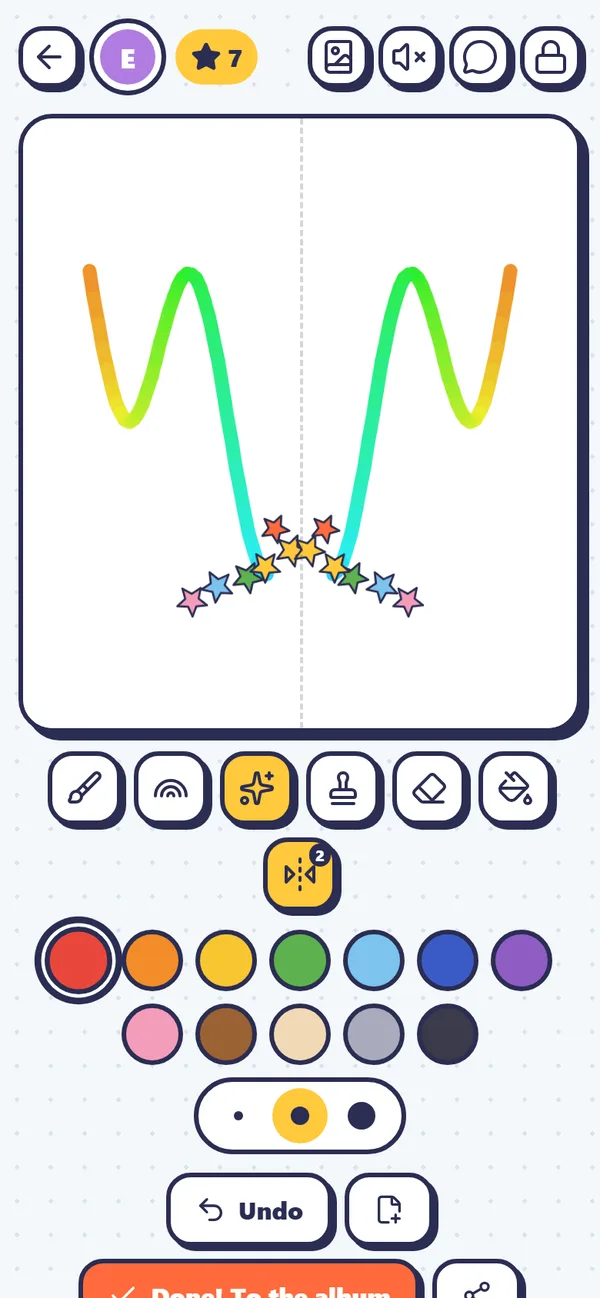
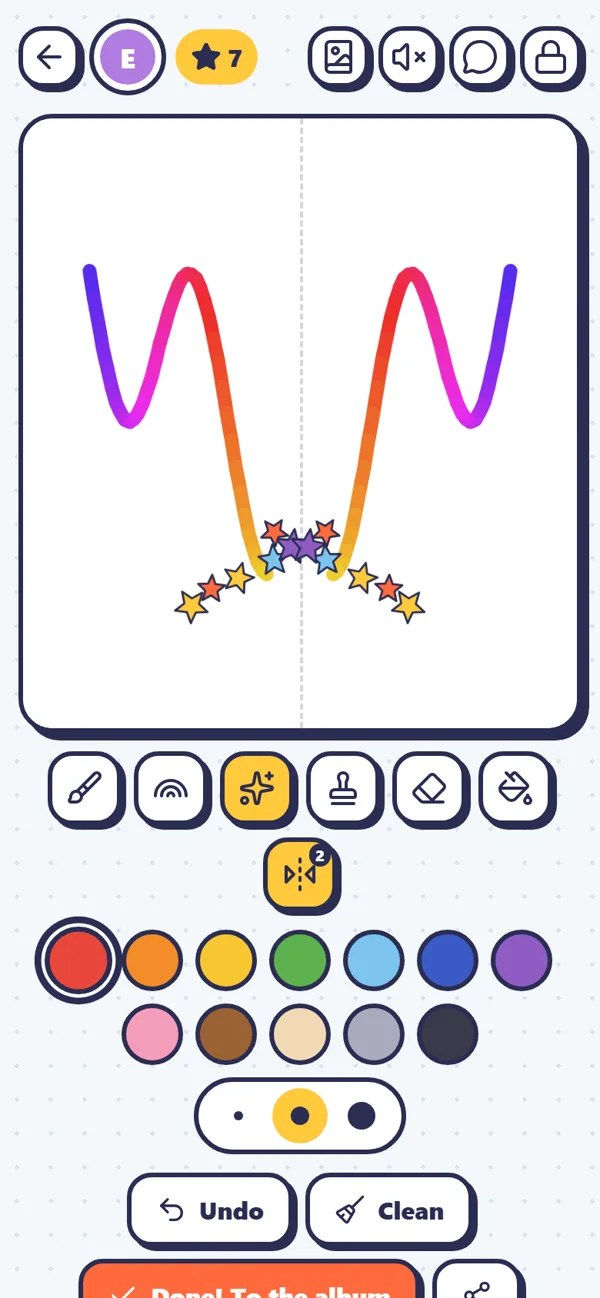
feat(angolo-bambini): tasto «Pulisci» nei giochi e musica dei colori più semplice
- Colora e Anima, Crea il tuo animale e Disegno libero: tasto «Pulisci» che svuota il foglio («Annulla» lo riporta indietro)
- La musica dei colori: i fiori si colorano in fila senza buchi, «Suona» suona solo quelli colorati, le canzoni si cancellano senza il codice del genitore, tolto lo strumento robot
- Guida e schermate aggiornate (it/en), testi in 7 lingue

diff --git a/src/components/kids/MusicGame.tsx b/src/components/kids/MusicGame.tsx
@@ -2,7 +2,7 @@
 
 import { useCallback, useEffect, useMemo, useRef, useState } from 'react'
 import { useTranslations } from 'next-intl'
-import { Bell, Bot, Dices, Eraser, Gauge, ListMusic, Play, Save, Square, Trash2, Wind } from 'lucide-react'
+import { Bell, Dices, Eraser, Gauge, ListMusic, Play, Save, Square, Trash2, Wind } from 'lucide-react'
 import { PALETTE, drawingById } from '@/lib/kids/catalog'
 import { assembleCreature } from '@/lib/kids/creature'
 import { KIDS_SVG_CSS, applyPivots } from '@/lib/kids/moves'
@@ -13,8 +13,9 @@ import type { KidsActions } from './actions'
 
 // «La musica dei colori»: ogni pastello è una nota. Il bambino colora i fiori
 // della fila, preme «Suona» e il suo personaggio balla sulla melodia che ha
-// «dipinto». Le note sono di una scala pentatonica: qualunque combinazione
-// suona bene. Le canzoni restano nel telefono.
+// «dipinto». I fiori si colorano in fila, senza buchi, e «Suona» suona solo
+// quelli colorati. Le note sono di una scala pentatonica: qualunque
+// combinazione suona bene. Le canzoni restano nel telefono.
 
 const rand = () => Math.random()
 const now = () => Date.now()
@@ -24,9 +25,14 @@ const NOTE_COLORS = ['red', 'orange', 'yellow', 'green', 'lightBlue', 'blue', 'p
 const STEPS = 12
 const TEMPOS = [560, 400, 270]
 const MAX_SONGS = 12
-const INSTRUMENT_ICON: Record<Instrument, typeof Bell> = { xilofono: ListMusic, flauto: Wind, campanelle: Bell, robot: Bot }
+const INSTRUMENT_ICON: Record<Instrument, typeof Bell> = { xilofono: ListMusic, flauto: Wind, campanelle: Bell }
 
 const emptySong = (): (number | null)[] => Array(STEPS).fill(null)
+// Note in fila dall'inizio, poi i fiori vuoti (anche per le canzoni salvate con le pause)
+const compact = (notes: (number | null)[]) => {
+  const filled = notes.filter((n): n is number => n !== null && n !== undefined).slice(0, STEPS)
+  return [...filled, ...Array<null>(STEPS - filled.length).fill(null)]
+}
 
 export default function MusicGame({
   profile,
@@ -86,19 +92,21 @@ export default function MusicGame({
     fig.classList.add('waking')
   }
 
+  // Fiori colorati (sempre all'inizio della fila): «Suona» si ferma all'ultimo
+  const filled = notes.findIndex((n) => n === null)
+  const length = filled === -1 ? STEPS : filled
+
   const play = () => {
     if (playing) return stop()
+    if (!length) return actions.toast(t('musicEmpty'))
     setPlaying(true)
     let i = 0
     const tick = () => {
       setStep(i)
-      const n = notes[i]
-      if (n !== null && n !== undefined) {
-        if (sound) playNote(n, instrument)
-        hop()
-      }
+      if (sound) playNote(notes[i]!, instrument)
+      hop()
       i += 1
-      if (i >= STEPS) {
+      if (i >= length) {
         timer.current = setTimeout(() => {
           stop()
           if (sound) melody([0, 4, 7], 110)
@@ -111,19 +119,25 @@ export default function MusicGame({
   }
 
   const tapStep = (i: number) => {
+    // Stesso colore di nuovo (o gomma): il fiore si svuota e quelli dopo scorrono indietro
+    if (color === null || notes[i] === color) {
+      if (notes[i] === null) return
+      setNotes(compact(notes.map((n, k) => (k === i ? null : n))))
+      return
+    }
+    // Un fiore vuoto si colora sempre al primo posto libero: niente buchi nella fila
+    const at = notes[i] === null ? length : i
     const next = [...notes]
-    // Stesso colore di nuovo (o gomma): il fiore torna vuoto, cioè una pausa
-    next[i] = color === null || notes[i] === color ? null : color
+    next[at] = color
     setNotes(next)
-    if (next[i] !== null && sound) playNote(next[i]!, instrument)
+    if (sound) playNote(color, instrument)
   }
 
   const randomSong = () => {
     stop()
-    // Melodia a caso che «cammina» tra note vicine, con qualche pausa
+    // Melodia a caso che «cammina» tra note vicine
     let n = Math.floor(rand() * 4)
-    const song = Array.from({ length: STEPS }, (_, i) => {
-      if (i % 4 === 3 && rand() < 0.4) return null
+    const song = Array.from({ length: STEPS }, () => {
       n = Math.max(0, Math.min(7, n + Math.round(rand() * 4 - 2)))
       return n
     })
@@ -132,7 +146,7 @@ export default function MusicGame({
 
   const songs = profile.songs ?? []
   const saveSong = () => {
-    if (notes.every((n) => n === null)) return actions.toast(t('musicEmpty'))
+    if (!length) return actions.toast(t('musicEmpty'))
     // Canzone uguale a una già salvata: niente doppione e niente stella in più
     const same = (song: Song) => song.instrument === instrument && song.tempo === tempo && song.notes.every((n, i) => n === notes[i])
     if (songs.some(same)) return actions.toast(t('musicSaved'))
@@ -143,7 +157,7 @@ export default function MusicGame({
   }
   const loadSong = (song: Song) => {
     stop()
-    setNotes([...song.notes, ...emptySong()].slice(0, STEPS))
+    setNotes(compact(song.notes))
     setInstrument((INSTRUMENTS as readonly string[]).includes(song.instrument) ? (song.instrument as Instrument) : 'xilofono')
     setTempo(song.tempo)
     setList(false)
@@ -166,7 +180,7 @@ export default function MusicGame({
             type="button"
             onClick={() => tapStep(i)}
             aria-label={n === null ? t('musicPause', { n: i + 1 }) : t('musicNote', { n: i + 1, color: t(`colors.${NOTE_COLORS[n].key}`) })}
-            className={`relative aspect-square rounded-full border-[3px] transition-transform ${step === i ? 'scale-110 border-[#FF6A3D] ring-4 ring-[#FFC93C]' : 'border-[#2B2D52]'} ${n === null ? 'border-dashed bg-white' : ''}`}
+            className={`relative aspect-square rounded-full border-[3px] transition-transform ${step === i ? 'scale-110 border-[#FF6A3D] ring-4 ring-[#FFC93C]' : i === length && !playing ? 'animate-pulse border-[#FF6A3D]' : 'border-[#2B2D52]'} ${n === null ? 'border-dashed bg-white' : ''}`}
             style={n === null ? undefined : { background: NOTE_COLORS[n].hex }}
           >
             <span className="absolute inset-x-0 -bottom-5 text-center text-[10px] font-bold text-[#61648A]">{i + 1}</span>
@@ -254,7 +268,7 @@ export default function MusicGame({
                 <div key={song.id} className="flex items-center gap-2 rounded-2xl border-[3px] border-[#2B2D52] bg-white p-2">
                   <button type="button" onClick={() => loadSong(song)} className="flex min-w-0 flex-1 items-center gap-2 text-left">
                     <span className="flex shrink-0 gap-0.5">
-                      {song.notes.map((n, i) => (
+                      {compact(song.notes).map((n, i) => (
                         <span key={i} className="h-4 w-2.5 rounded-sm border border-[#2B2D52]/40" style={{ background: n === null ? '#fff' : NOTE_COLORS[n]?.hex }} />
                       ))}
                     </span>
@@ -263,7 +277,7 @@ export default function MusicGame({
                   <button
                     type="button"
                     aria-label={t('musicDelete')}
-                    onClick={() => actions.askParent('manage', () => onProfileChange({ ...profile, songs: songs.filter((s) => s.id !== song.id) }))}
+                    onClick={() => onProfileChange({ ...profile, songs: songs.filter((s) => s.id !== song.id) })}
                     className="rounded-xl p-2 text-red-700"
                   >
                     <Trash2 className="h-5 w-5" />

diff --git a/src/components/kids/FreeDrawGame.tsx b/src/components/kids/FreeDrawGame.tsx
@@ -2,7 +2,7 @@
 
 import { useCallback, useEffect, useMemo, useRef, useState } from 'react'
 import { useTranslations } from 'next-intl'
-import { Brush, Eraser, FilePlus2, FlipHorizontal2, PaintBucket, Rainbow, Share2, Sparkles, Stamp, Undo2, Check } from 'lucide-react'
+import { Broom, Brush, Eraser, FlipHorizontal2, PaintBucket, Rainbow, Share2, Sparkles, Stamp, Undo2, Check } from 'lucide-react'
 import { ERASER, paletteFor } from '@/lib/kids/catalog'
 import type { KidProfile } from '@/lib/kids/storage'
 import { KidsButton, KidsIconButton } from './ColorStage'
@@ -189,6 +189,8 @@ export default function FreeDrawGame({
   const palette = useMemo(() => paletteFor(Math.max(profile.age, 5)), [profile.age])
   const canvasRef = useRef<HTMLCanvasElement>(null)
   const [ops, setOps] = useState<Op[]>(() => (Array.isArray(profile.sketch) ? (profile.sketch as Op[]) : []))
+  // «Pulisci» svuota il foglio; finché non si disegna di nuovo «Annulla» lo riporta indietro
+  const [cleared, setCleared] = useState<Op[] | null>(null)
   const [tool, setTool] = useState<Tool>('pennello')
   const [colorIndex, setColorIndex] = useState(0)
   const [size, setSize] = useState(1)
@@ -225,6 +227,7 @@ export default function FreeDrawGame({
     const ctx = canvasRef.current?.getContext('2d')
     if (!ctx) return
     e.currentTarget.setPointerCapture(e.pointerId)
+    setCleared(null)
     const [x, y] = point(e)
     if (tool === 'sfondo') {
       // Lo sfondo va sotto a tutto (uno solo)
@@ -286,9 +289,17 @@ export default function FreeDrawGame({
   // Ultimo disegno salvato nell'album (stesso elenco di tratti = già salvato)
   const savedOps = useRef<Op[] | null>(null)
 
-  const undo = () => setOps((o) => o.slice(0, -1))
+  const undo = () => {
+    if (!ops.length && cleared) {
+      setOps(cleared)
+      setCleared(null)
+      return
+    }
+    setOps((o) => o.slice(0, -1))
+  }
   const fresh = () => {
     if (!ops.length) return
+    setCleared(ops)
     setOps([])
     if (sound) melody([7, 4, 0], 90)
   }
@@ -397,11 +408,11 @@ export default function FreeDrawGame({
 
       {/* Azioni */}
       <div className="flex flex-wrap items-center justify-center gap-2">
-        <KidsButton onClick={undo} disabled={!ops.length}>
+        <KidsButton onClick={undo} disabled={!ops.length && !cleared}>
           <Undo2 className="h-5 w-5" /> {t('undo')}
         </KidsButton>
-        <KidsButton onClick={fresh} label={t('drawNew')} disabled={!ops.length}>
-          <FilePlus2 className="h-5 w-5" />
+        <KidsButton onClick={fresh} disabled={!ops.length}>
+          <Broom className="h-5 w-5" /> {t('clean')}
         </KidsButton>
         <KidsButton onClick={() => void finish(false)} accent>
           <Check className="h-5 w-5" /> {t('drawDone')}

diff --git a/src/components/kids/ColorStage.tsx b/src/components/kids/ColorStage.tsx
@@ -2,7 +2,7 @@
 
 import { useCallback, useEffect, useMemo, useRef, useState } from 'react'
 import { useLocale, useTranslations } from 'next-intl'
-import { ArrowUp, Eraser, Hand, Moon, Music, Star, Undo2 } from 'lucide-react'
+import { ArrowUp, Broom, Eraser, Hand, Moon, Music, Star, Undo2 } from 'lucide-react'
 import { ERASER, paletteFor } from '@/lib/kids/catalog'
 import { KIDS_SVG_CSS, applyPivots, type Move } from '@/lib/kids/moves'
 import type { Drawing } from '@/lib/kids/types'
@@ -53,7 +53,8 @@ export default function ColorStage({
   const [colorIndex, setColorIndex] = useState(0)
   const [eraser, setEraser] = useState(false)
   const [mode, setMode] = useState<Move>('saluta')
-  const [undo, setUndo] = useState<{ key: string; list: { part: string; prev: string | null }[] }>({ key: '', list: [] })
+  // Ogni passo annullabile: un pezzo colorato oppure «Pulisci» (tutti i colori di prima)
+  const [undo, setUndo] = useState<{ key: string; list: ({ part: string; prev: string | null } | { all: Record<string, string> })[] }>({ key: '', list: [] })
   const [bubble, setBubble] = useState<{ text: string; key: number; cheer?: boolean } | null>(null)
   const [hint, setHint] = useState<{ text: string; color: string; x: number; y: number; key: number } | null>(null)
   const fills = state.fills
@@ -200,10 +201,21 @@ export default function ColorStage({
     const last = undoList[undoList.length - 1]
     if (!last) return
     setUndo({ key: drawing.svg, list: undoList.slice(0, -1) })
+    if ('all' in last) return onState({ fills: last.all, awake: drawing.figure.every((p) => last.all[p]) })
     const nextFills = { ...fills }
     if (last.prev) nextFills[last.part] = last.prev
     else delete nextFills[last.part]
     onState({ fills: nextFills })
+  }
+
+  // «Pulisci»: foglio di nuovo bianco e figura che torna a dormire («Annulla» lo riporta indietro)
+  const clearAll = () => {
+    if (!Object.keys(fills).length) return
+    setUndo({ key: drawing.svg, list: [...undoList.slice(-49), { all: fills }] })
+    setBubble(null)
+    setMode('saluta')
+    if (sound) melody([7, 4, 0], 90)
+    onState({ fills: {}, awake: false })
   }
 
   const setMove = (m: Move) => {
@@ -307,6 +319,9 @@ export default function ColorStage({
       <div className="flex flex-wrap items-center justify-center gap-2">
         <KidsButton onClick={undoLast} disabled={!undoList.length}>
           <Undo2 className="h-5 w-5" /> {t('undo')}
+        </KidsButton>
+        <KidsButton onClick={clearAll} disabled={!Object.keys(fills).length}>
+          <Broom className="h-5 w-5" /> {t('clean')}
         </KidsButton>
         {children}
       </div>

diff --git a/src/components/kids/kidsAudio.ts b/src/components/kids/kidsAudio.ts
@@ -94,7 +94,7 @@ export function speak(text: string, locale: string) {
 }
 
 // «La musica dei colori»: una nota con il timbro di uno strumento
-export const INSTRUMENTS = ['xilofono', 'flauto', 'campanelle', 'robot'] as const
+export const INSTRUMENTS = ['xilofono', 'flauto', 'campanelle'] as const
 export type Instrument = (typeof INSTRUMENTS)[number]
 
 export function playNote(index: number, instrument: Instrument) {
@@ -102,7 +102,7 @@ export function playNote(index: number, instrument: Instrument) {
   if (!a) return
   const t = a.currentTime
   const freq = NOTES[((index % NOTES.length) + NOTES.length) % NOTES.length] * (instrument === 'campanelle' ? 2 : 1)
-  const shape = { xilofono: ['triangle', 0.16, 0.01, 0.4], flauto: ['sine', 0.18, 0.06, 0.55], campanelle: ['sine', 0.12, 0.005, 0.9], robot: ['square', 0.05, 0.01, 0.22] } as const
+  const shape = { xilofono: ['triangle', 0.16, 0.01, 0.4], flauto: ['sine', 0.18, 0.06, 0.55], campanelle: ['sine', 0.12, 0.005, 0.9] } as const
   const [type, volume, attack, length] = shape[instrument]
   const osc = a.createOscillator()
   const gain = a.createGain()
